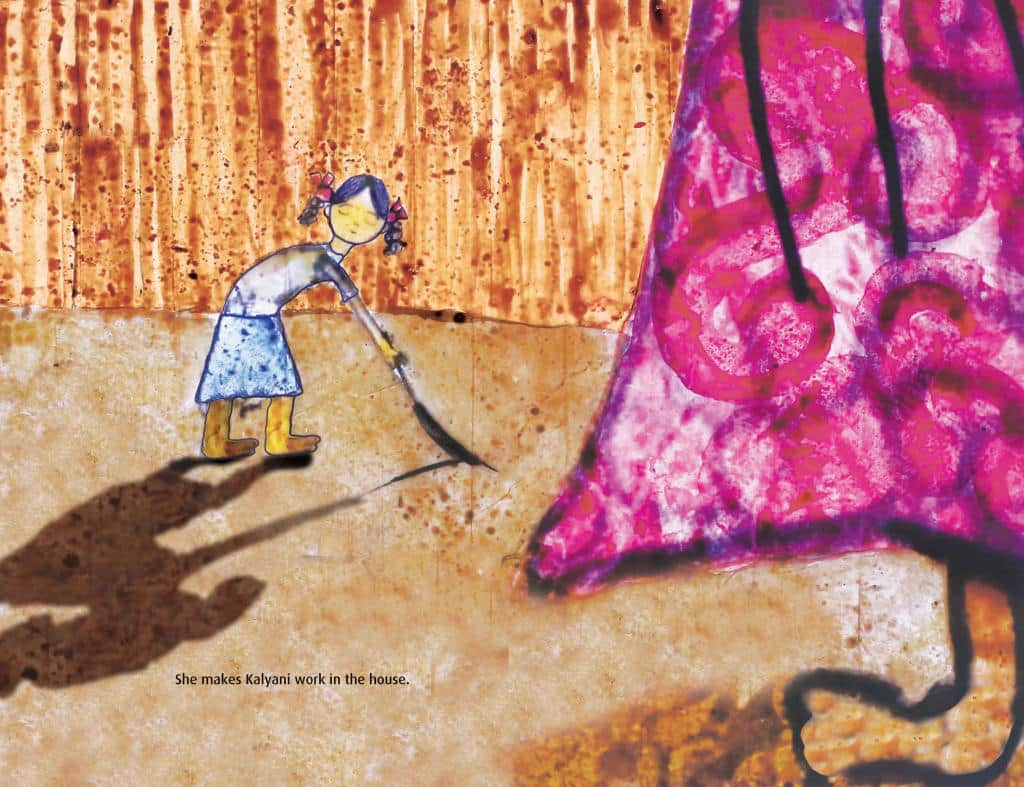
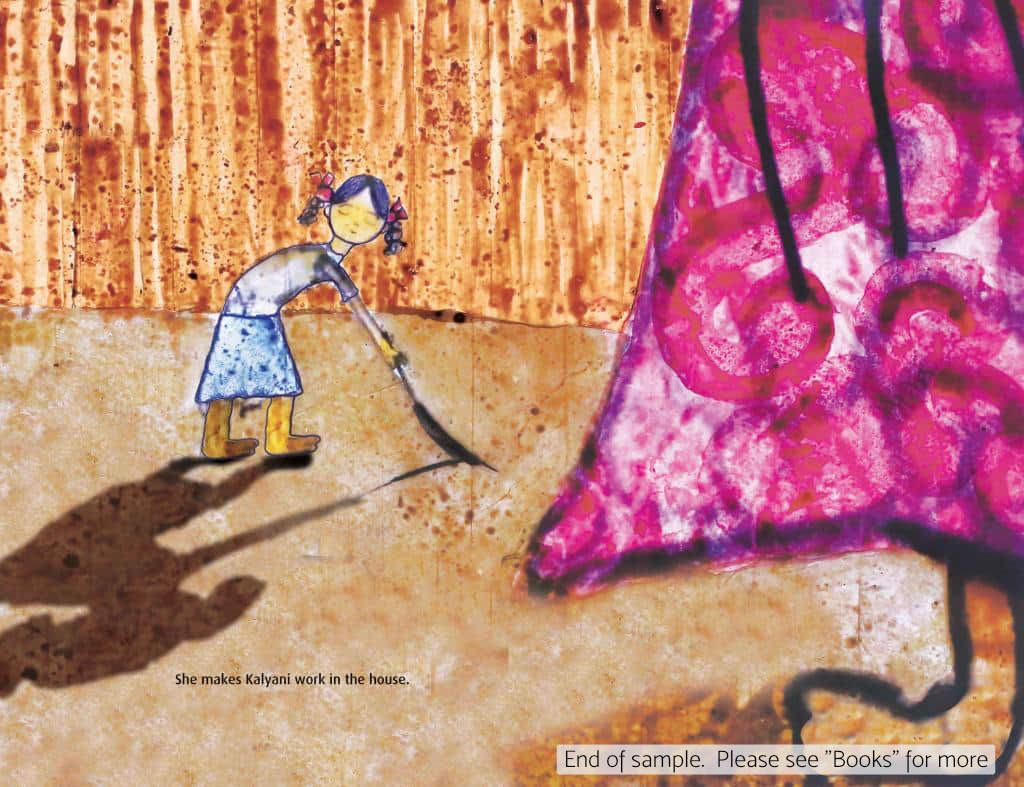
Fixed popup book cosmetics, limited sample book to 4 pages. 	modified:   assets/css/main.css 	modified:   assets/img/book-sample/04.jpg 	deleted:    assets/img/book-sample/05.jpg 	deleted:    assets/img/book-sample/06.jpg 	deleted:    assets/img/book-sample/07.jpg 	deleted:    assets/img/book-sample

Changed region(s): [[0.5312, 0.9454, 1.0, 1.0]]

diff --git a/index.html b/index.html
@@ -71,29 +71,20 @@
     <div id="book-sample" class="text-wrapper" onclick="openBook();">Please click here for a sample book with audio
     </div>
     <div id="book-open">
-      <div id='bb-bookblock' class='bb-bookblock'>
-        <div class="bb-item"> <img src="assets/img/book-sample/00.png" /></div>
-        <div class="bb-item"> <img src="assets/img/book-sample/01.jpg" /></div>
-        <div class="bb-item"> <img src="assets/img/book-sample/02.jpg" /></div>
-        <div class="bb-item"> <img src="assets/img/book-sample/03.jpg" /></div>
-        <div class="bb-item"> <img src="assets/img/book-sample/04.jpg" /></div>
-        <div class="bb-item"> <img src="assets/img/book-sample/05.jpg" /></div>
-        <div class="bb-item"> <img src="assets/img/book-sample/06.jpg" /></div>
-        <div class="bb-item"> <img src="assets/img/book-sample/07.jpg" /></div>
-        <div class="bb-item"> <img src="assets/img/book-sample/08.jpg" /></div>
-        <div class="bb-item"> <img src="assets/img/book-sample/09.jpg" /></div>
-        <div class="bb-item"> <img src="assets/img/book-sample/10.jpg" /></div>
-        <div class="bb-item"> <img src="assets/img/book-sample/11.jpg" /></div>
-        <div class="bb-item"> <img src="assets/img/book-sample/12.jpg" /></div>
-        <div class="bb-item"> <img src="assets/img/book-sample/13.jpg" /></div>
-        <div class="bb-item"> <img src="assets/img/book-sample/14.jpg" /></div>
-        <div class="bb-item"> <img src="assets/img/book-sample/15.jpg" /></div>
-        <div class="bb-item"> <img src="assets/img/book-sample/16.jpg" /></div>
-        <div class="bb-item"> <img src="assets/img/book-sample/17.jpg" /></div>
-        <div class="bb-item"> <img src="assets/img/book-sample/18.jpg" /></div>
-        <div class="bb-item"> <img src="assets/img/book-sample/19.jpg" /></div>
-        <div class="bb-item"> <img src="assets/img/book-sample/20.jpg" /></div>
-      </div>
+      <!-- <div id="book-open-inner"> -->
+        <!-- <div id="book-sample-title">Clever Kalyani</div>
+        <div class="close">X</div>
+        <div class="break"></div> -->
+        <div id='bb-bookblock' class='bb-bookblock'>
+          <div id="book-close" onclick="closeBook()"> &times;</div>
+          <div class="bb-item"> <img src="assets/img/book-sample/00.png" /></div>
+          <div class="bb-item"> <img src="assets/img/book-sample/01.jpg" /></div>
+          <div class="bb-item"> <img src="assets/img/book-sample/02.jpg" /></div>
+          <div class="bb-item"> <img src="assets/img/book-sample/03.jpg" /></div>
+          <div class="bb-item"> <img src="assets/img/book-sample/04.jpg" /></div>
+        </div>
+        <!-- <div style="height: 20px;"></div>
+      </div> -->
     </div>
     <div id="films-text-wrapper" class="text-wrapper">
       <h2 id="our-films"> Our Films</h2>
@@ -118,22 +109,6 @@
   </div>
 </body>
 <script>
-  const gallery = document.getElementById('gallery-section');
-  const leftInd = gallery.querySelector(".left");
-  const rightInd = gallery.querySelector(".right");
-  const imgContainer = gallery.querySelector("#gallery-img-container");
-  function showIndicators() {
-    window.requestAnimationFrame(() => {
-      leftInd.style.opacity = (imgContainer.scrollLeft == 0) ? "0" : "1";
-      rightInd.style.opacity = ((imgContainer.scrollWidth - imgContainer.scrollLeft) >
-        imgContainer.clientWidth) ? "1" : "0";
-      // console.log(leftInd.style.opacity, rightInd.style.opacity);
-    });
-  }
-  showIndicators();
-  imgContainer.addEventListener('scroll', showIndicators);
-  window.addEventListener('resize', showIndicators);
-
   // Workaround for stupid Safari bugs .. .requires reload sometimes on resizing, otherwise
   // some of the responsive elements don't resize. For example, fontsize.
   var isSafari = navigator.userAgent.match("Safari");
@@ -143,7 +118,6 @@
       clearTimeout(resizeTimer);
       resizeTimer = setTimeout(function () {
         window.location.reload();
-        console.log("RELOADED");
       }, 250);
     });
   }
@@ -172,9 +146,14 @@
       bb_bookblock.classList.add("bb-vh");
     }
     Page().init("book-sample");
+    var book_close = document.getElementById("book-close");
+    book_close.onclick = closeBook;
   }
-  var span = document.getElementsByClassName("close");
-  span.onclick = () => { modal.style.display = "none"; }
+  
+  function closeBook() {
+    var book_open = document.getElementById("book-open");
+    book_open.style.display = "none";
+  }
 </script>
 
 </html>

diff --git a/assets/css/main.css b/assets/css/main.css
@@ -258,7 +258,7 @@ h2 {
   z-index: 20;
   /* overflow: hidden; */
   background-color: rgb(0,0,0); /* Fallback color */
-  background-color: rgba(0,0,0,0.4); /* Black w/ opacity */
+  background-color: rgba(0, 0, 0, 0.7); /* Black w/ opacity */
   /* background-color: white; */
   top: 0;
   left: 0;
@@ -266,26 +266,45 @@ h2 {
   height: 100vh;
 }
 
-.bb-vw { /* All units for book-open in vw units*/
-  width: 80vw;
-  height: calc(80vw * 787/1024);
-  top: 10vw;
-  left: 10vw;
+#book-open-inner {
+  position: relative;
+  display: flex;
+  background: white;
 }
 
+#book-sample-title {
+  font-size: 30px;
+  text-align: center;
+}
+
+ /* induce artifical row break in flex layout */
+.break {
+  flex-basis: 100%;
+  height: 0;
+}
+
+/* Used where width is more constraining. All units are in vw, and aspect ratio is maintained*/
+.bb-vw { 
+  width: 80vw;
+  height: calc(80vw * 787/1024);
+  margin-left: auto;
+  margin-right: auto;
+}
+
+/* Used where height is more constraining. All units are in vh */
 .bb-vh {
-  top: 10vh;
-  left: 10vh;
+  /*top: 10vh;
+  left: 10vh;*/
+  margin-left: auto;
+  margin-right: auto;
   height: 80vh;
   width: calc(80vh * 1024/787);
 }
 
 #bb-bookblock {
+  /* width/height set by .bb-vw or .bb-vh, depending on screen orientation.*/
   font-size: 10px;
-  /* width: 100%;
-  height: 100%; */
 	position: relative;
-  margin: auto;
   z-index: 100;
 
 	-webkit-perspective: 1300px;
@@ -295,20 +314,35 @@ h2 {
 	box-shadow: 0 2px 4px 0 rgba(0, 0, 0, 0.1), 0 9px 20px 0 rgba(0, 0, 0, 0.25);
 	border-left:   1px solid grey;
 	border-bottom: 1px solid grey;
+  margin-top: 10vh;
+  margin-left: auto;
+  margin-right: auto;
   /* background: white; */
+  cursor: pointer;
+
 }
 
 
-/* The Close Button */
-.close {
-  color: #aaa;
-  float: right;
-  font-size: 28px;
+#book-close {
+  z-index: 1000;
+  position: absolute;
+  right: -10px;
+  top: -15px;
+  width: 30px;
+  height: 30px;
+  font-family: sans-serif;
+  font-size: 20px;
   font-weight: bold;
+  margin-left: auto;
+  border-radius: 50%;
+  background: black;
+  color: white;
+  line-height: 30px;
 }
 
-.close:hover,
-.close:focus {
+#book-close:hover,
+#book-close:focus {
+  background: yellow;
   color: black;
   text-decoration: none;
   cursor: pointer;

diff --git a/assets/js/lets.js b/assets/js/lets.js
@@ -37,10 +37,10 @@ function Page() {
         speed: 300,
         shadowSides: 0.8,
         shadowFlip: 0.7,
-        onEndFlip: playAudio,
+        // onEndFlip: playAudio,
       });
       initEvents();
-      playAudio(0, 0, false); // Cover page
+      // playAudio(0, 0, false); // Cover page
     },
     initEvents = function () {
       var $slides = config.$bookBlock.children();
